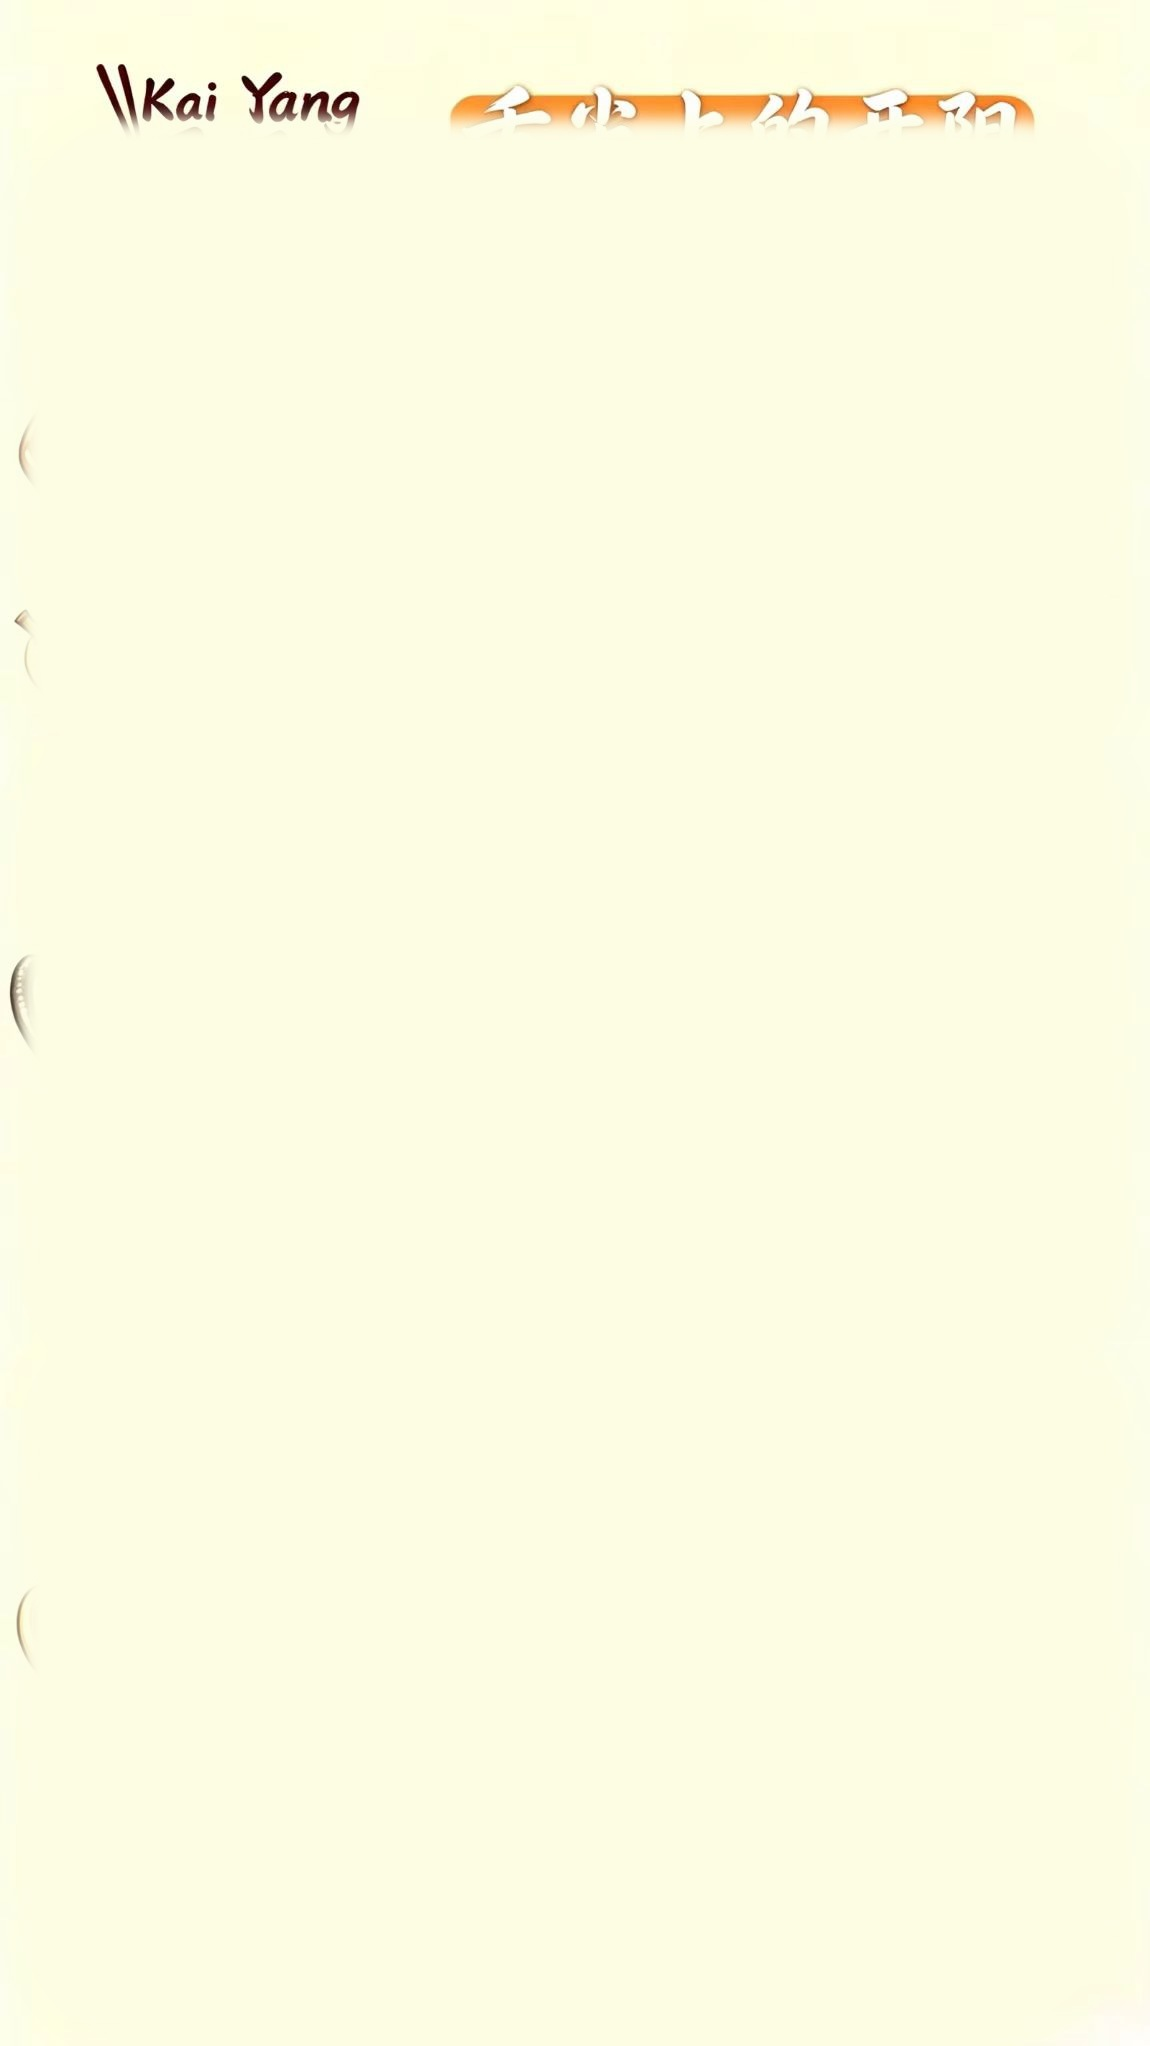
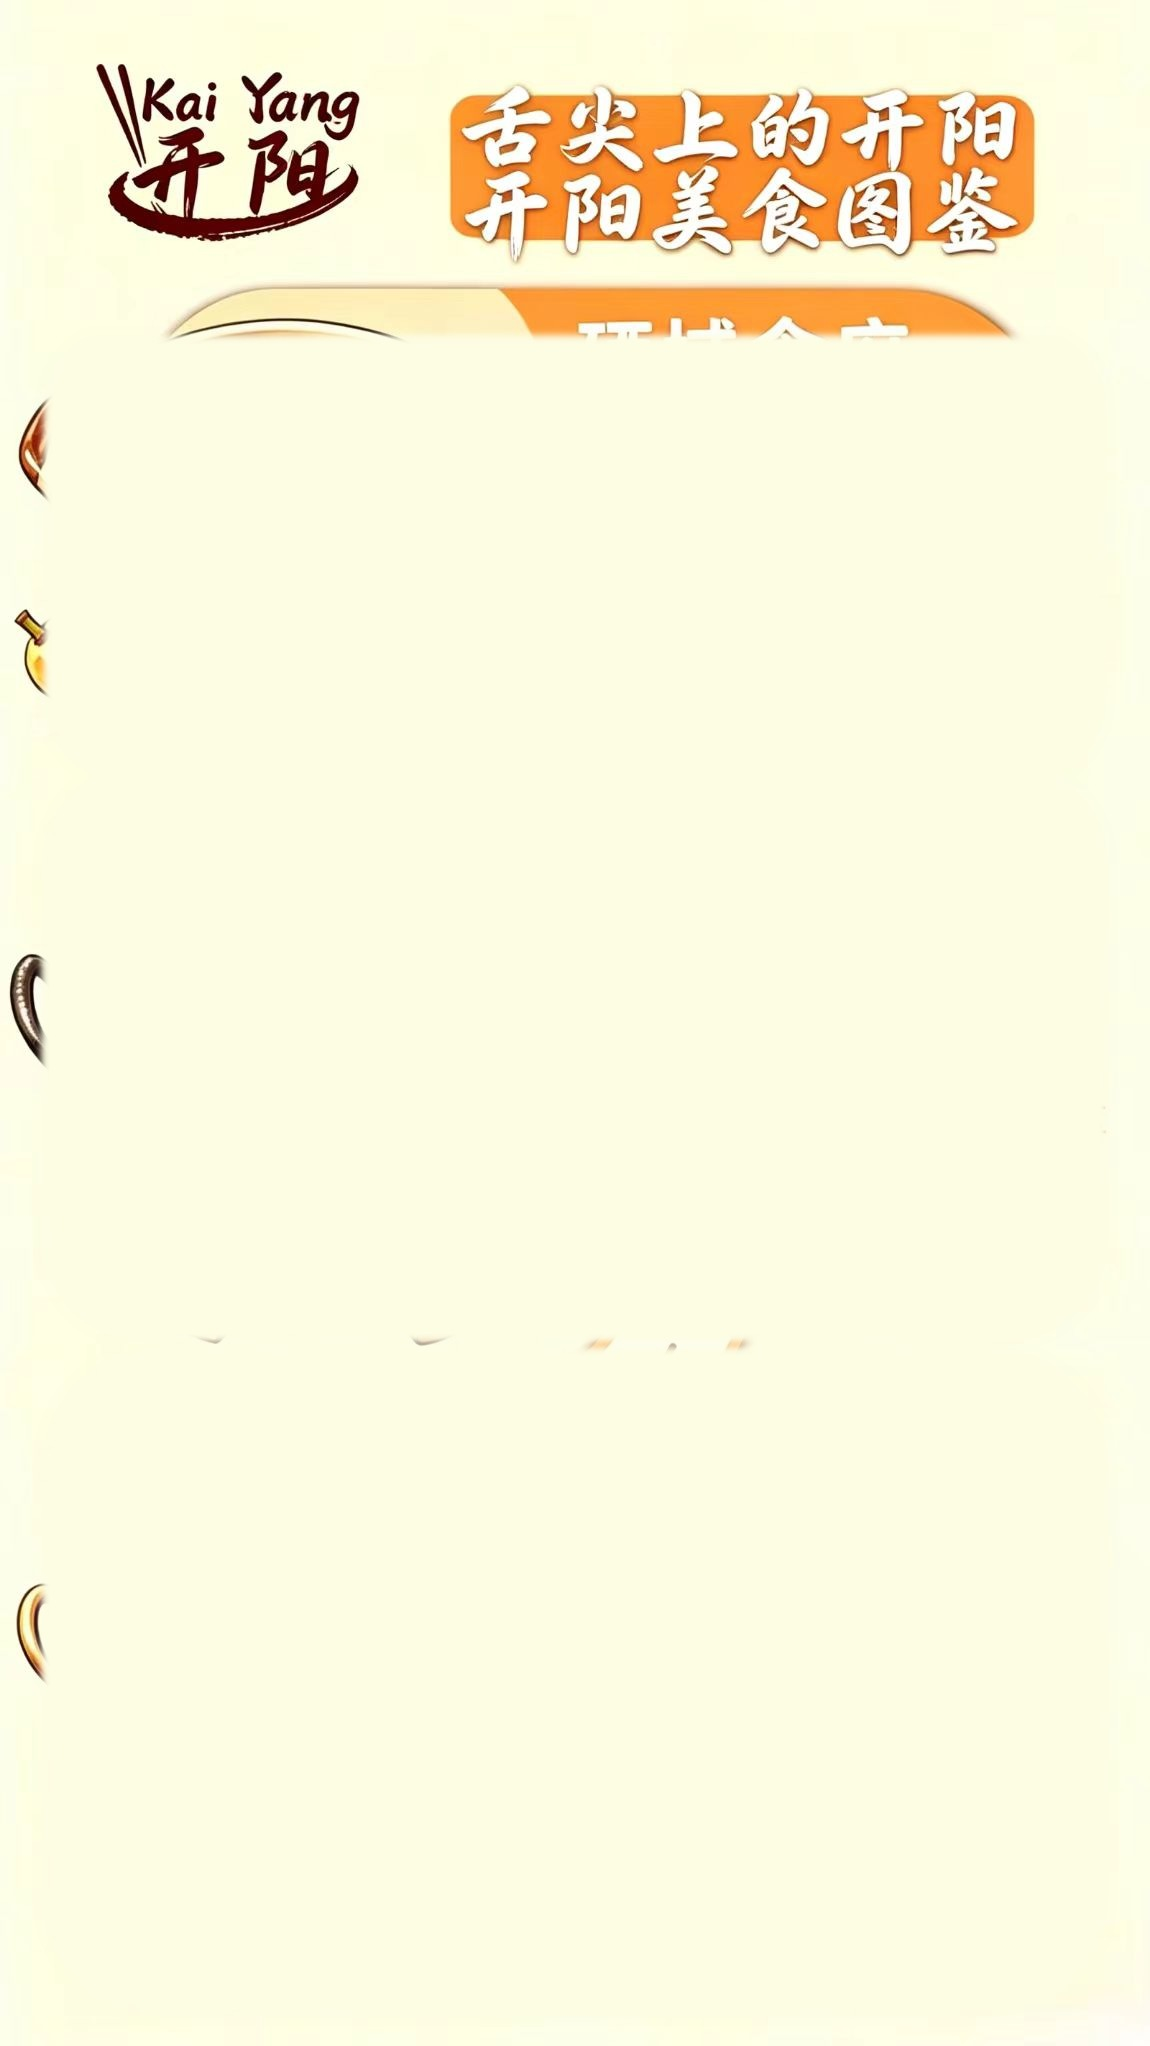
Keep the Kai Yang header static when cutting inner-page cards.

diff --git a/js/shops.js b/js/shops.js
@@ -226,8 +226,8 @@ window.KAIYANG_FOOD_MAP = {
    */
   posterPages: [
     {
-      image: "assets/images/pages/01.jpg?v=0930e",
-      bgImage: "assets/images/pages/01-bg.jpg?v=0930e",
+      image: "assets/images/pages/01.jpg?v=0930f",
+      bgImage: "assets/images/pages/01-bg.jpg?v=0930f",
       staticPieces: [],
       titlePieces: [
         { left: 6, top: 2.6, width: 88, height: 17.6, delay: 0 },
@@ -256,8 +256,8 @@ window.KAIYANG_FOOD_MAP = {
       cardPieces: []
     },
     {
-      image: "assets/images/pages/02.jpg?v=0930e",
-      bgImage: "assets/images/pages/02-bg.jpg?v=0930e",
+      image: "assets/images/pages/02.jpg?v=0930f",
+      bgImage: "assets/images/pages/02-bg.jpg?v=0930f",
       hotspots: [
         { shopId: 1, left: 48, top: 33.2, width: 42, height: 7 },
         { shopId: 2, left: 7, top: 58.8, width: 40, height: 7 },
@@ -267,14 +267,14 @@ window.KAIYANG_FOOD_MAP = {
       titlePieces: [],
       dishPieces: [],
       cardPieces: [
-        { left: 4.2, top: 15.8, width: 91.6, height: 26.8, delay: 0.06 },
-        { left: 4.0, top: 41.6, width: 92.0, height: 27.8, delay: 0.38 },
-        { left: 4.0, top: 69.2, width: 92.0, height: 29.0, delay: 0.7 }
+        { left: 5.0, top: 16.8, width: 90.0, height: 25.4, delay: 0.06 },
+        { left: 4.5, top: 42.0, width: 91.0, height: 26.6, delay: 0.38 },
+        { left: 4.5, top: 69.4, width: 91.0, height: 28.4, delay: 0.7 }
       ]
     },
     {
-      image: "assets/images/pages/03.jpg?v=0930e",
-      bgImage: "assets/images/pages/03-bg.jpg?v=0930e",
+      image: "assets/images/pages/03.jpg?v=0930f",
+      bgImage: "assets/images/pages/03-bg.jpg?v=0930f",
       hotspots: [
         { shopId: 4, left: 48, top: 31.2, width: 42, height: 7 },
         { shopId: 5, left: 7, top: 56.8, width: 40, height: 7 },
@@ -284,14 +284,14 @@ window.KAIYANG_FOOD_MAP = {
       titlePieces: [],
       dishPieces: [],
       cardPieces: [
-        { left: 4.0, top: 14.6, width: 92.0, height: 27.6, delay: 0.06 },
-        { left: 4.0, top: 41.4, width: 92.0, height: 27.8, delay: 0.38 },
-        { left: 4.0, top: 68.6, width: 92.0, height: 29.8, delay: 0.7 }
+        { left: 4.5, top: 16.4, width: 91.0, height: 26.0, delay: 0.06 },
+        { left: 4.5, top: 42.2, width: 91.0, height: 26.6, delay: 0.38 },
+        { left: 4.5, top: 69.0, width: 91.0, height: 29.2, delay: 0.7 }
       ]
     },
     {
-      image: "assets/images/pages/04.jpg?v=0930e",
-      bgImage: "assets/images/pages/04-bg.jpg?v=0930e",
+      image: "assets/images/pages/04.jpg?v=0930f",
+      bgImage: "assets/images/pages/04-bg.jpg?v=0930f",
       hotspots: [
         { shopId: 7, left: 47, top: 26.2, width: 43, height: 7 },
         { shopId: 8, left: 7, top: 56.2, width: 40, height: 7.2 },
@@ -301,14 +301,14 @@ window.KAIYANG_FOOD_MAP = {
       titlePieces: [],
       dishPieces: [],
       cardPieces: [
-        { left: 4.0, top: 12.8, width: 92.0, height: 27.8, delay: 0.06 },
-        { left: 4.0, top: 39.6, width: 92.0, height: 28.6, delay: 0.38 },
-        { left: 4.0, top: 67.4, width: 92.0, height: 31.2, delay: 0.7 }
+        { left: 4.5, top: 16.2, width: 91.0, height: 25.4, delay: 0.06 },
+        { left: 4.5, top: 40.4, width: 91.0, height: 26.8, delay: 0.38 },
+        { left: 4.5, top: 67.8, width: 91.0, height: 30.4, delay: 0.7 }
       ]
     },
     {
-      image: "assets/images/pages/05.jpg?v=0930e",
-      bgImage: "assets/images/pages/05-bg.jpg?v=0930e",
+      image: "assets/images/pages/05.jpg?v=0930f",
+      bgImage: "assets/images/pages/05-bg.jpg?v=0930f",
       hotspots: [
         { shopId: 10, left: 50, top: 26.5, width: 42, height: 7.5 },
         { shopId: 11, left: 50, top: 54.2, width: 42, height: 7.5 },
@@ -318,14 +318,14 @@ window.KAIYANG_FOOD_MAP = {
       titlePieces: [],
       dishPieces: [],
       cardPieces: [
-        { left: 3.2, top: 7.4, width: 93.6, height: 30.0, delay: 0.06 },
-        { left: 3.2, top: 36.2, width: 93.6, height: 30.6, delay: 0.38 },
-        { left: 3.2, top: 65.6, width: 93.6, height: 33.2, delay: 0.7 }
+        { left: 4.0, top: 16.2, width: 92.0, height: 21.8, delay: 0.06 },
+        { left: 3.8, top: 37.4, width: 92.4, height: 28.0, delay: 0.38 },
+        { left: 3.8, top: 66.0, width: 92.4, height: 32.4, delay: 0.7 }
       ]
     },
     {
-      image: "assets/images/pages/06.jpg?v=0930e",
-      bgImage: "assets/images/pages/06-bg.jpg?v=0930e",
+      image: "assets/images/pages/06.jpg?v=0930f",
+      bgImage: "assets/images/pages/06-bg.jpg?v=0930f",
       hotspots: [
         { shopId: 13, left: 48, top: 28.5, width: 42, height: 7.2 },
         { shopId: 14, left: 7, top: 55.8, width: 40, height: 7.2 },
@@ -335,14 +335,14 @@ window.KAIYANG_FOOD_MAP = {
       titlePieces: [],
       dishPieces: [],
       cardPieces: [
-        { left: 4.0, top: 14.8, width: 92.0, height: 27.4, delay: 0.06 },
-        { left: 4.0, top: 41.0, width: 92.0, height: 28.0, delay: 0.38 },
-        { left: 4.0, top: 67.8, width: 92.0, height: 31.0, delay: 0.7 }
+        { left: 4.5, top: 16.6, width: 91.0, height: 25.6, delay: 0.06 },
+        { left: 4.5, top: 42.0, width: 91.0, height: 26.4, delay: 0.38 },
+        { left: 4.5, top: 68.4, width: 91.0, height: 29.8, delay: 0.7 }
       ]
     },
     {
-      image: "assets/images/pages/07.jpg?v=0930e",
-      bgImage: "assets/images/pages/07-bg.jpg?v=0930e",
+      image: "assets/images/pages/07.jpg?v=0930f",
+      bgImage: "assets/images/pages/07-bg.jpg?v=0930f",
       hotspots: [
         { shopId: 16, left: 48, top: 28.2, width: 42, height: 7.2 },
         { shopId: 17, left: 7, top: 55.5, width: 40, height: 7.2 },
@@ -352,9 +352,9 @@ window.KAIYANG_FOOD_MAP = {
       titlePieces: [],
       dishPieces: [],
       cardPieces: [
-        { left: 4.0, top: 14.4, width: 92.0, height: 27.6, delay: 0.06 },
-        { left: 4.0, top: 40.8, width: 92.0, height: 28.2, delay: 0.38 },
-        { left: 4.0, top: 67.8, width: 92.0, height: 31.0, delay: 0.7 }
+        { left: 4.5, top: 16.4, width: 91.0, height: 25.8, delay: 0.06 },
+        { left: 4.5, top: 41.6, width: 91.0, height: 26.6, delay: 0.38 },
+        { left: 4.5, top: 68.4, width: 91.0, height: 29.8, delay: 0.7 }
       ]
     }
   ]

diff --git a/h5.html b/h5.html
@@ -19,7 +19,7 @@
   <meta property="og:image:width" content="500" />
   <meta property="og:image:height" content="500" />
   <link rel="image_src" href="https://kai-yang-mei-shi.onrender.com/assets/images/share-thumb.jpg" />
-  <link rel="stylesheet" href="css/h5.css?v=pop7" />
+  <link rel="stylesheet" href="css/h5.css?v=pop8" />
 </head>
 <body>
   <div class="h5-root">
@@ -37,8 +37,8 @@
       <span>上滑继续</span>
     </div>
   </div>
-  <script src="js/shops.js?v=pop7"></script>
+  <script src="js/shops.js?v=pop8"></script>
   <script src="js/share.js"></script>
-  <script src="js/h5.js?v=pop7"></script>
+  <script src="js/h5.js?v=pop8"></script>
 </body>
 </html>

diff --git a/tools/make_anim_bg.py b/tools/make_anim_bg.py
@@ -32,10 +32,17 @@ def sample(img, left, top, width, height):
 
 
 def blend_fill(img, mask, color):
-    m = cv2.GaussianBlur(mask, (51, 51), 0).astype(np.float32) / 255.0
+    m = cv2.GaussianBlur(mask, (21, 21), 0).astype(np.float32) / 255.0
     color_img = np.full_like(img, color, dtype=np.float32)
     out = img.astype(np.float32) * (1.0 - m[..., None]) + color_img * m[..., None]
     return np.clip(out, 0, 255).astype(np.uint8)
+
+
+def protect_header(mask, img, height=16.4):
+    """Keep the Kai Yang / 开阳 title row out of card fill."""
+    h, w = img.shape[:2]
+    y2 = int(height / 100.0 * h)
+    mask[0:y2, :] = 0
 
 
 def process(src_name, out_name, titles=None, dishes=None, cards=None, paper=None, mapc=None):
@@ -61,8 +68,9 @@ def process(src_name, out_name, titles=None, dishes=None, cards=None, paper=None
     if cards:
         mask = np.zeros(img.shape[:2], np.uint8)
         for c in cards:
-            x1, y1, x2, y2 = box(img, *c[:4], pad=0.8)
+            x1, y1, x2, y2 = box(img, *c[:4], pad=0.2)
             fill_roundrect(mask, x1, y1, x2, y2)
+        protect_header(mask, img)
         out = blend_fill(out, mask, paper_color)
     dest = os.path.join(DEST, out_name)
     cv2.imwrite(dest, out, [int(cv2.IMWRITE_JPEG_QUALITY), 93])
@@ -115,12 +123,12 @@ cover_dishes = [
 
 pages = [
     ("01.jpg", "01-bg.jpg", {"titles": cover_titles, "dishes": cover_dishes, "paper": (86, 1, 12, 6), "mapc": (38, 60, 8, 4)}),
-    ("02.jpg", "02-bg.jpg", {"cards": [(3.2, 15.0, 93.6, 28.0), (3.0, 40.8, 94.0, 29.0), (3.0, 68.4, 94.0, 30.2)], "paper": (88, 48, 10, 18)}),
-    ("03.jpg", "03-bg.jpg", {"cards": [(3.0, 13.8, 94.0, 28.8), (3.0, 40.6, 94.0, 29.0), (3.0, 67.8, 94.0, 31.0)], "paper": (88, 48, 10, 18)}),
-    ("04.jpg", "04-bg.jpg", {"cards": [(3.0, 12.0, 94.0, 29.0), (3.0, 38.8, 94.0, 29.8), (3.0, 66.6, 94.0, 32.4)], "paper": (88, 48, 10, 18)}),
-    ("05.jpg", "05-bg.jpg", {"cards": [(2.4, 6.6, 95.2, 31.2), (2.4, 35.4, 95.2, 31.8), (2.4, 64.8, 95.2, 34.4)], "paper": (88, 48, 10, 18)}),
-    ("06.jpg", "06-bg.jpg", {"cards": [(3.0, 14.0, 94.0, 28.6), (3.0, 40.2, 94.0, 29.2), (3.0, 67.0, 94.0, 32.2)], "paper": (88, 48, 10, 18)}),
-    ("07.jpg", "07-bg.jpg", {"cards": [(3.0, 13.6, 94.0, 28.8), (3.0, 40.0, 94.0, 29.4), (3.0, 67.0, 94.0, 32.2)], "paper": (88, 48, 10, 18)}),
+    ("02.jpg", "02-bg.jpg", {"cards": [(5.0, 16.8, 90.0, 25.4), (4.5, 42.0, 91.0, 26.6), (4.5, 69.4, 91.0, 28.4)], "paper": (88, 48, 10, 18)}),
+    ("03.jpg", "03-bg.jpg", {"cards": [(4.5, 16.4, 91.0, 26.0), (4.5, 42.2, 91.0, 26.6), (4.5, 69.0, 91.0, 29.2)], "paper": (88, 48, 10, 18)}),
+    ("04.jpg", "04-bg.jpg", {"cards": [(4.5, 16.2, 91.0, 25.4), (4.5, 40.4, 91.0, 26.8), (4.5, 67.8, 91.0, 30.4)], "paper": (88, 48, 10, 18)}),
+    ("05.jpg", "05-bg.jpg", {"cards": [(4.0, 16.2, 92.0, 21.8), (3.8, 37.4, 92.4, 28.0), (3.8, 66.0, 92.4, 32.4)], "paper": (88, 48, 10, 18)}),
+    ("06.jpg", "06-bg.jpg", {"cards": [(4.5, 16.6, 91.0, 25.6), (4.5, 42.0, 91.0, 26.4), (4.5, 68.4, 91.0, 29.8)], "paper": (88, 48, 10, 18)}),
+    ("07.jpg", "07-bg.jpg", {"cards": [(4.5, 16.4, 91.0, 25.8), (4.5, 41.6, 91.0, 26.6), (4.5, 68.4, 91.0, 29.8)], "paper": (88, 48, 10, 18)}),
 ]
 
 for name, out, spec in pages:
